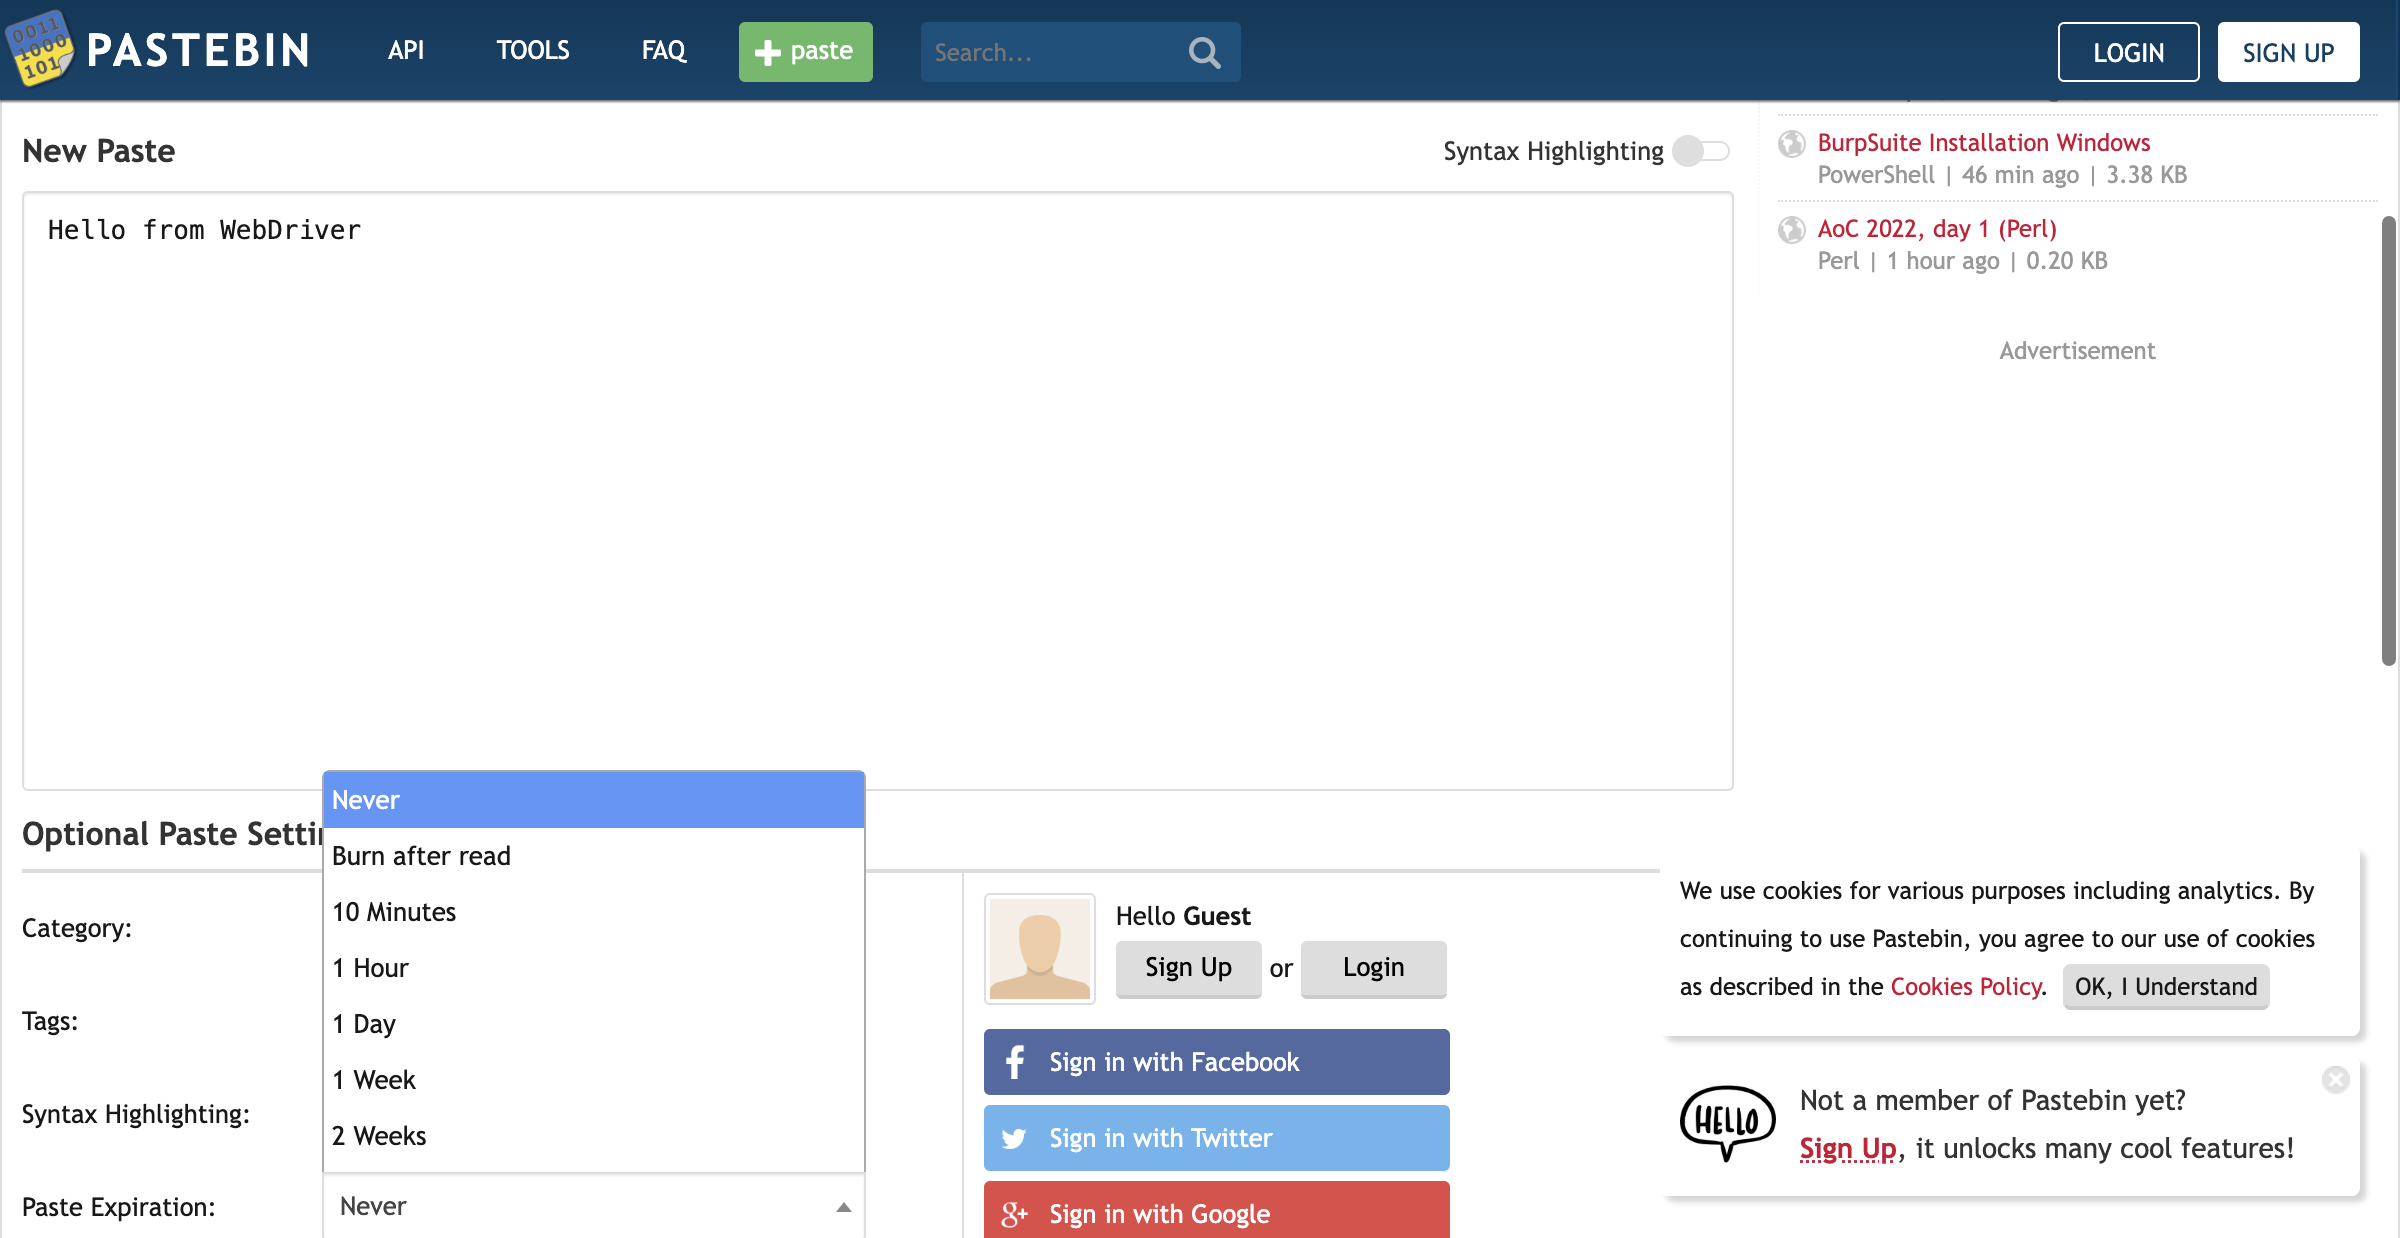
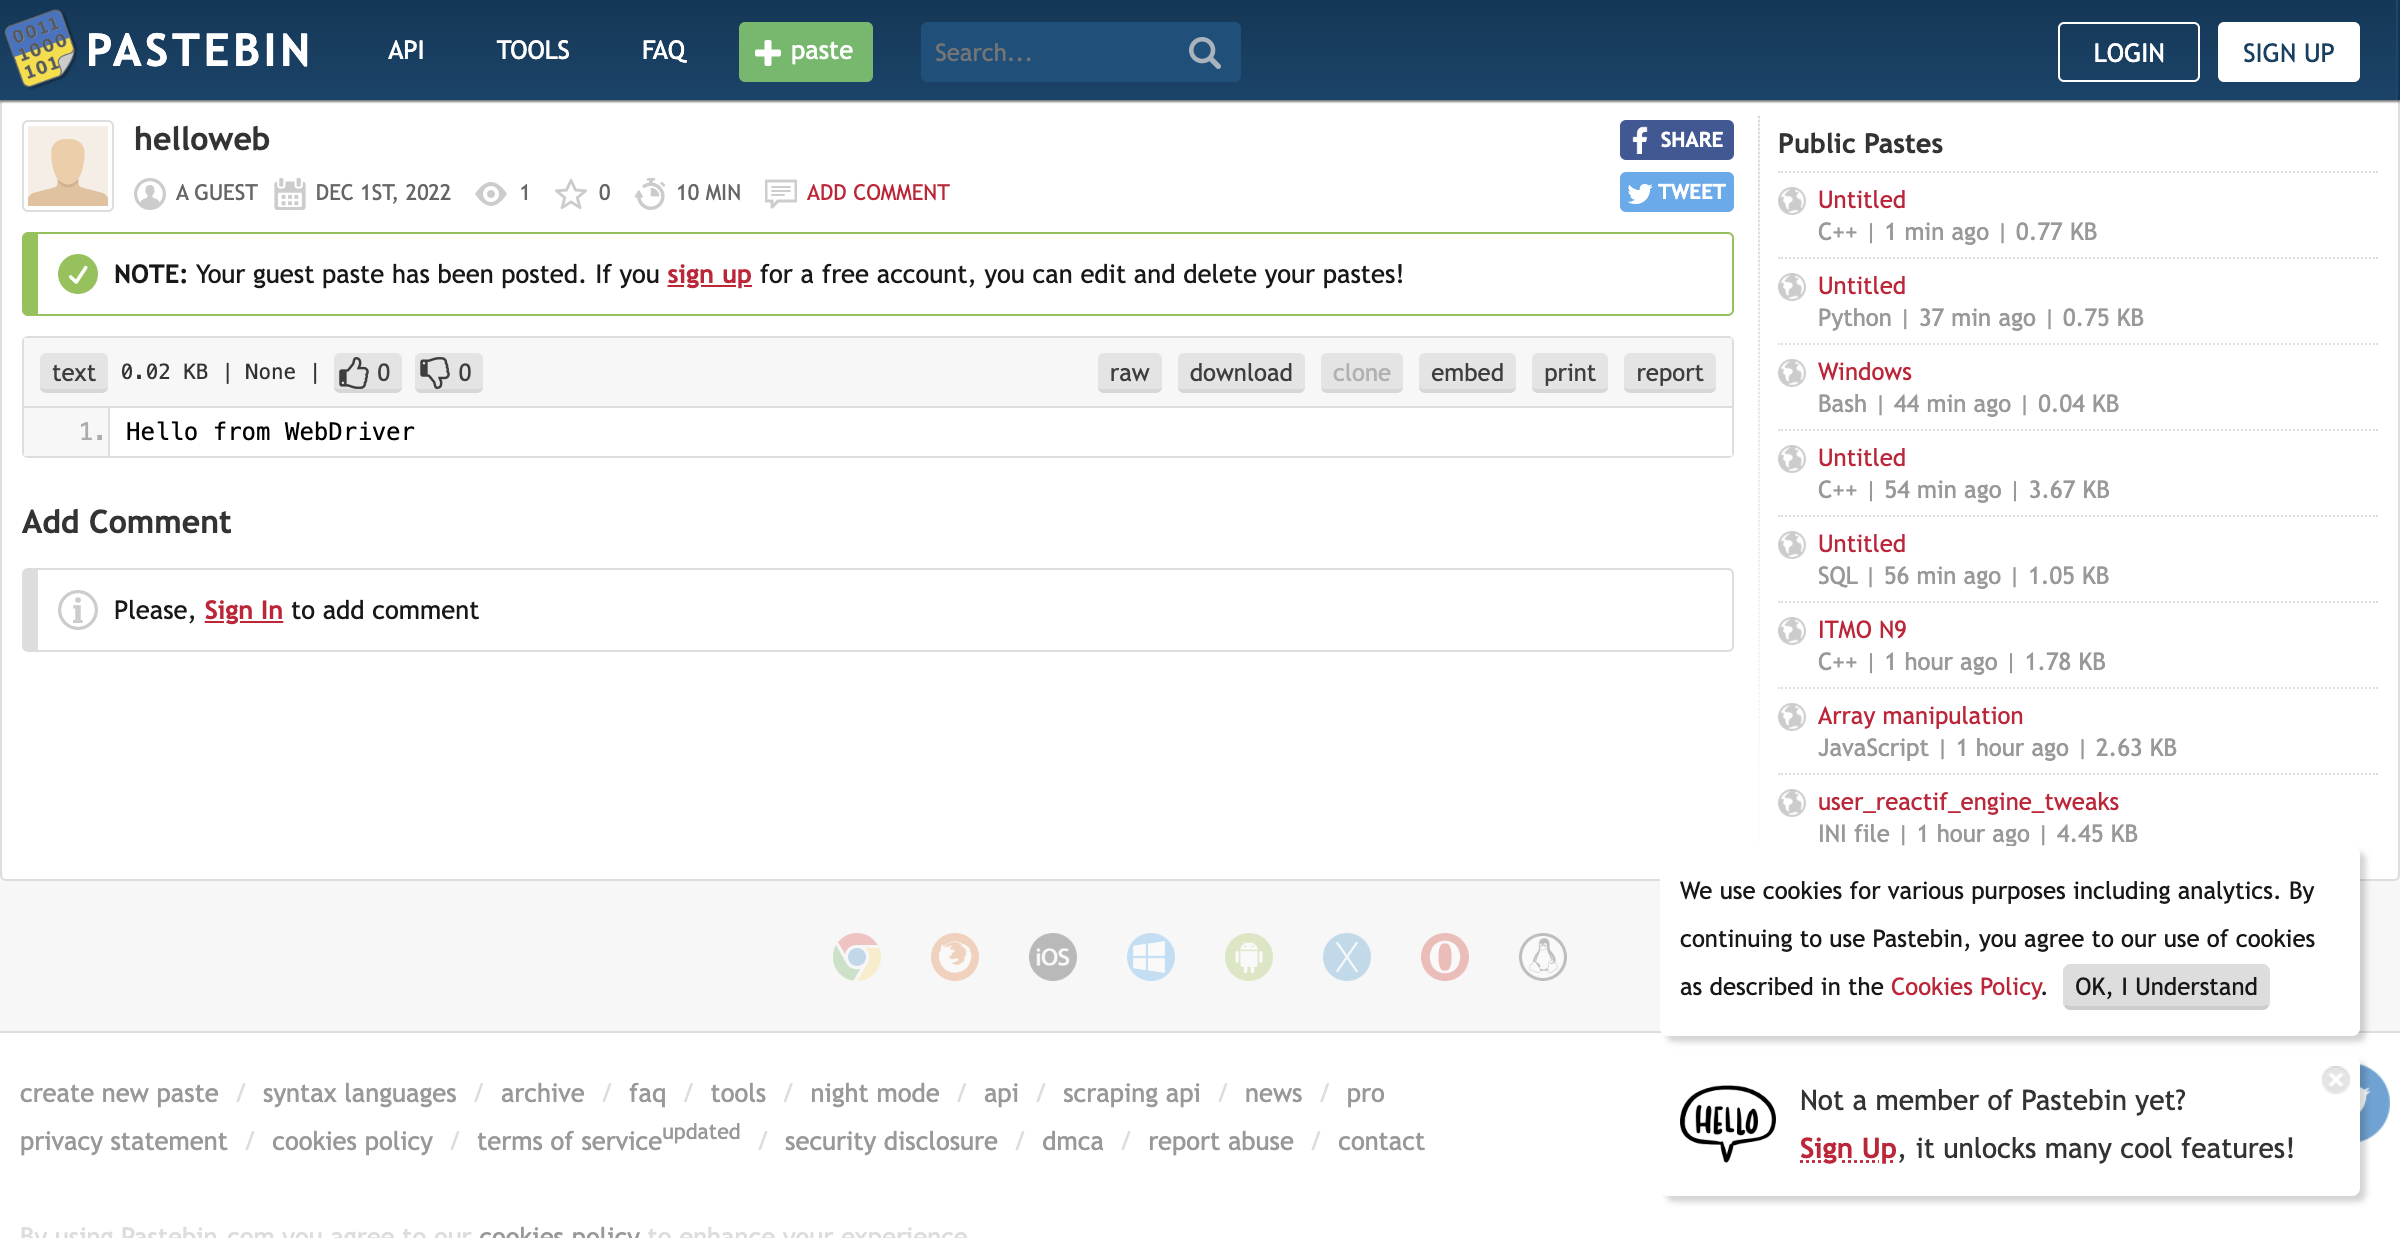
first task is completed

diff --git a/test/specs/test.spec.js b/test/specs/test.spec.js
@@ -9,8 +9,6 @@ describe ("Create a New Paste", function (){
      5. Type "helloweb" in the "Paste Name / Title:" input box
      6. Click the "Create New Post" button
     */
-        
-
         await browser.url("https://pastebin.com/");
         const pageTitle = await browser.getTitle();    
         expect(pageTitle).toEqual("Pastebin.com - #1 paste tool since 2002!");
@@ -25,10 +23,17 @@ describe ("Create a New Paste", function (){
         const expirationTitile = await $('#select2-postform-expiration-container').getText();
         expect(expirationTitile).toEqual("10 Minutes");
 
+        await $("input[id='postform-name']").setValue("helloweb");
+        
+        await $("button[class='btn -big']").click();
+
+        const infoTop = await $("div[class='info-top']").getText();
+        expect(infoTop).toEqual("helloweb");
     
+        const code = await $("div[class='de1']").getText();
+        expect(code).toEqual("Hello from WebDriver");
+
         await browser.saveScreenshot('./screens/screenshot.png');
-
-
 
     })
 })
